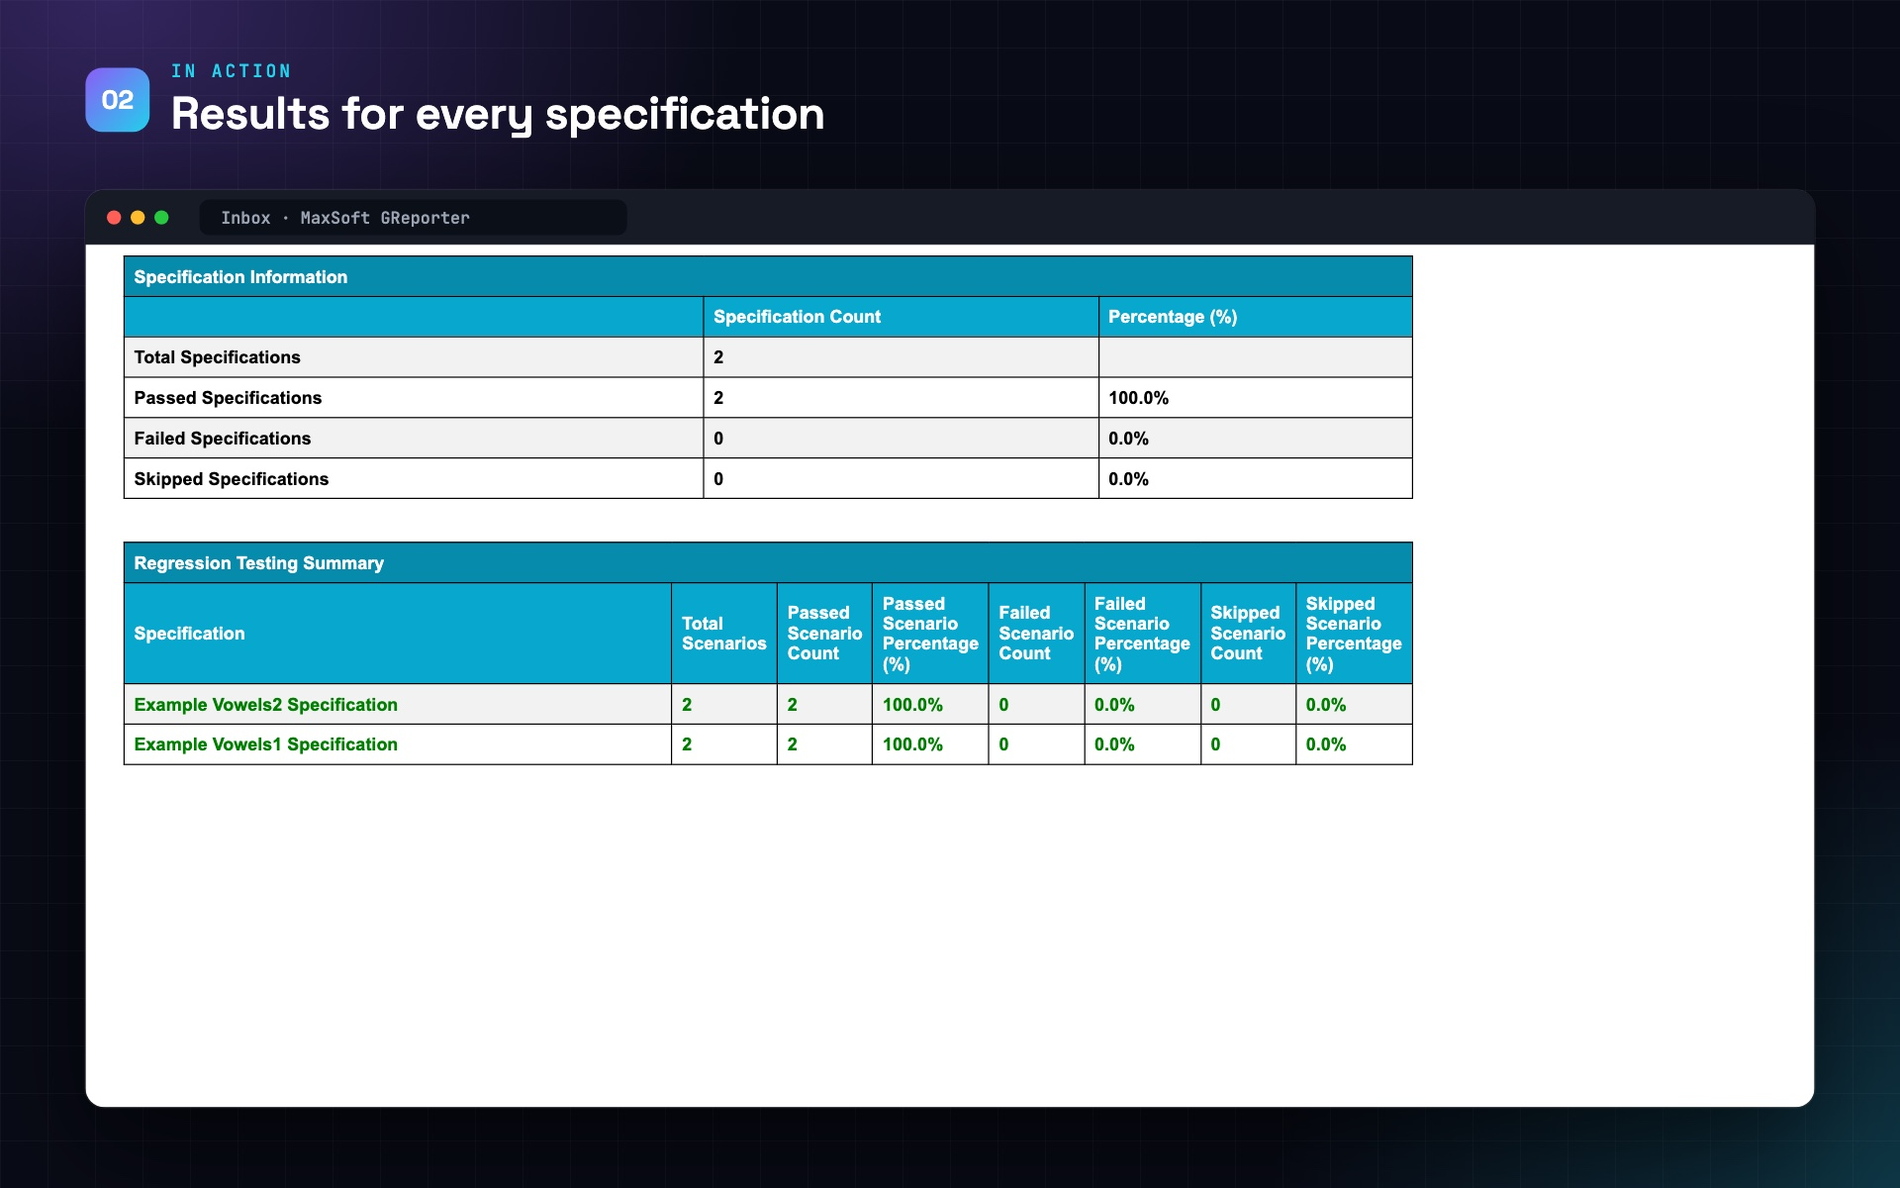
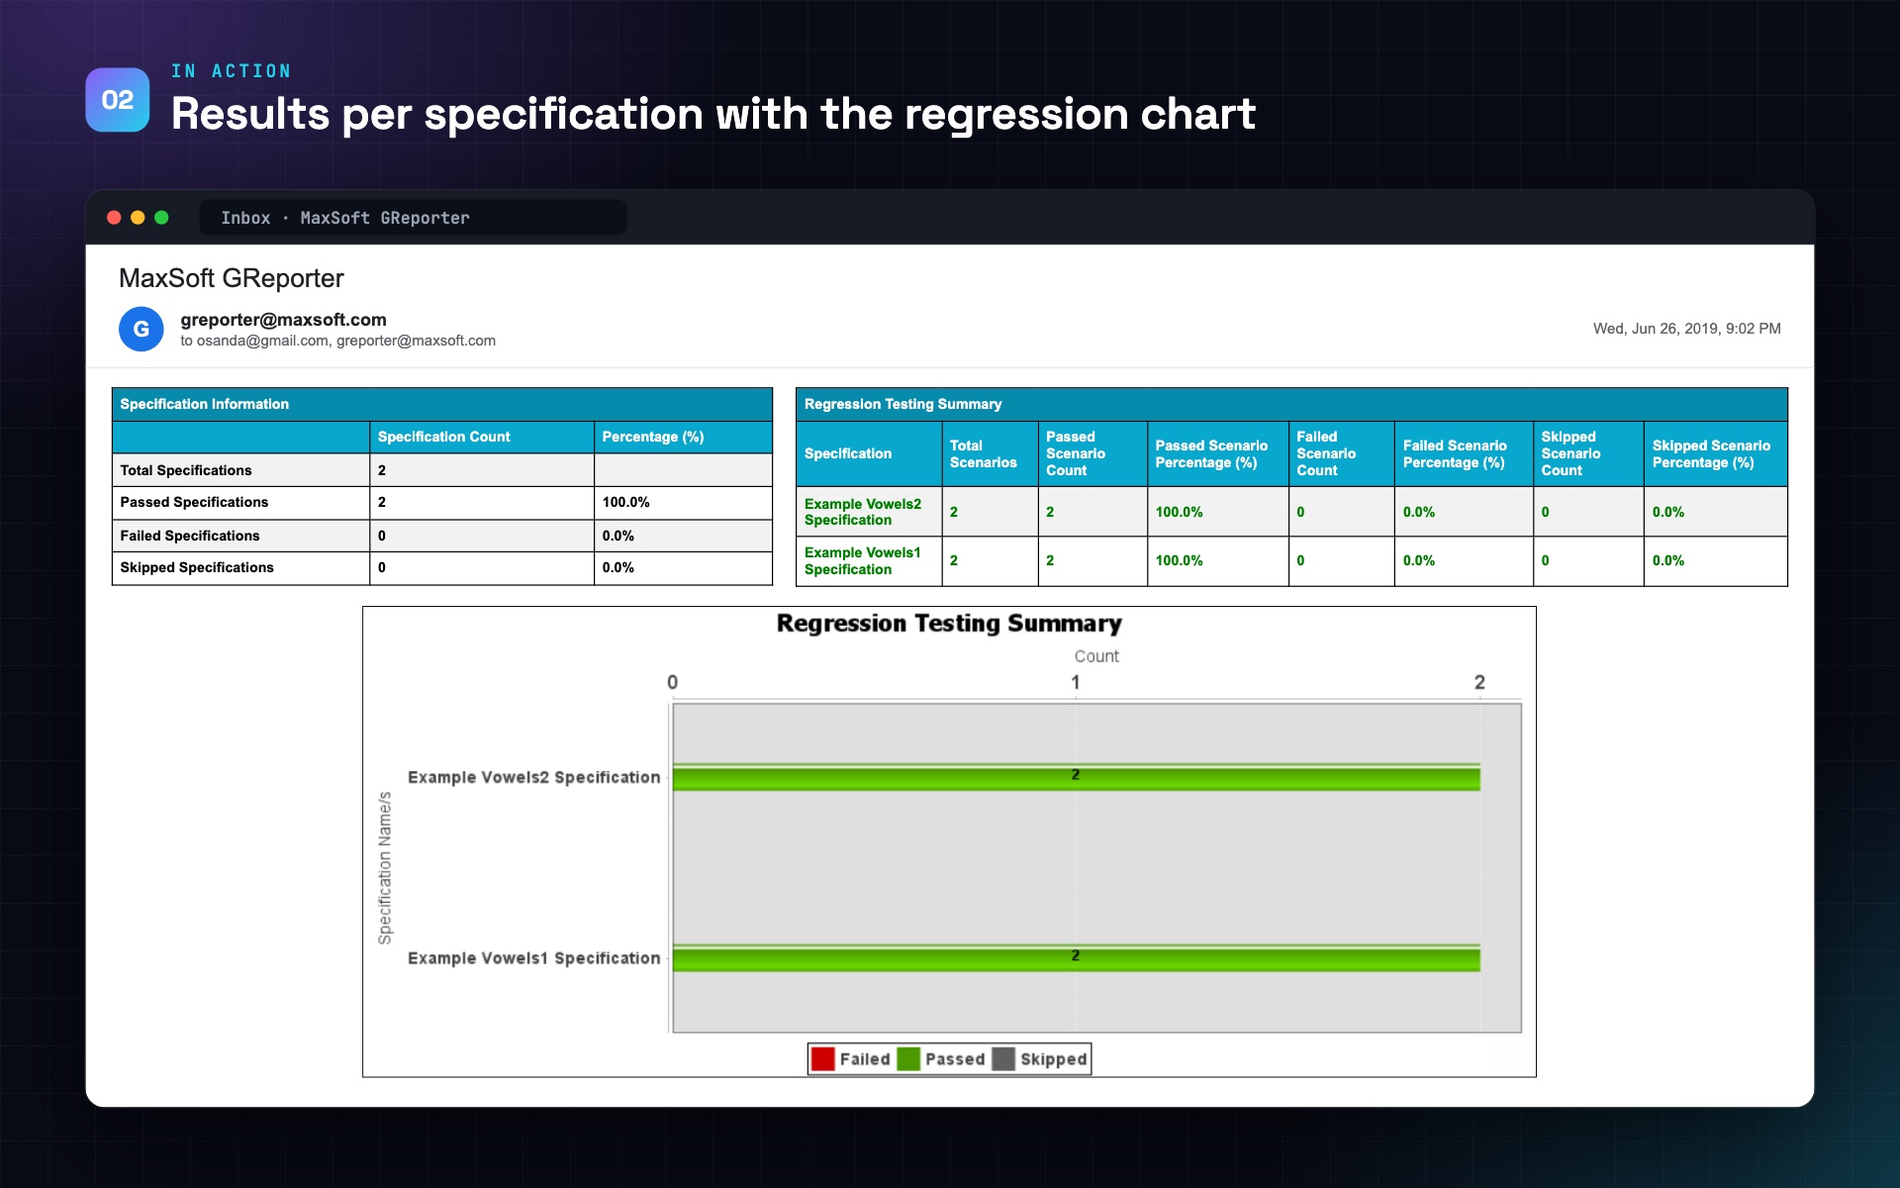
Sharp, readable gallery images and reordered galleries
- Rebuild low-resolution screens in HTML from their exact data so body
  text is readable at full size: TestNG Excel sheets and Extent reports,
  Extent Reporter V4 report, standard Gauge report for IntelliAPI
- Health Checker: wider five-column capture, wide modal, two phone crops
- GReporter: split the summary email across two readable images
- Test Automation Master: publication home page and the latest articles
- MySight: remove the open menu and use a taller phone screen
- Reorder TestNG Analyzer, Extent Reporter, WebDriver Manager and
  Text Extractor galleries; update captions and alt text
- Design system: readability rule for gallery images

diff --git a/maxsoft-testng-test-results-analyzer.html b/maxsoft-testng-test-results-analyzer.html
@@ -73,17 +73,19 @@
     <div class="container detail-grid">
       <div class="reveal">
       <div class="gallery card">
-        <div class="browser-bar"><span></span><span></span><span></span><em class="g-count">1 / 4</em><button class="g-zoom" type="button" aria-label="View image full screen"><i class="bi bi-arrows-fullscreen"></i></button></div>
+        <div class="browser-bar"><span></span><span></span><span></span><em class="g-count">1 / 6</em><button class="g-zoom" type="button" aria-label="View image full screen"><i class="bi bi-arrows-fullscreen"></i></button></div>
         <div class="g-stage">
           <img src="assets/img/gallery/maxsoft-testng-test-results-analyzer-1.jpg" alt="MaxSoft TestNG Test Results Analyzer: See which root cause breaks the most tests" width="1920" height="1200" class="active" loading="eager">
-          <img src="assets/img/gallery/maxsoft-testng-test-results-analyzer-2.jpg" alt="MaxSoft TestNG Test Results Analyzer: A full Extent HTML report with every run" width="1920" height="1200" class="" loading="lazy">
-          <img src="assets/img/gallery/maxsoft-testng-test-results-analyzer-3.jpg" alt="MaxSoft TestNG Test Results Analyzer: Failure details with the error and screenshot" width="1920" height="1200" class="" loading="lazy">
-          <img src="assets/img/gallery/maxsoft-testng-test-results-analyzer-4.jpg" alt="MaxSoft TestNG Test Results Analyzer: Configure everything in one properties file" width="1920" height="1200" class="" loading="lazy">
+          <img src="assets/img/gallery/maxsoft-testng-test-results-analyzer-2.jpg" alt="MaxSoft TestNG Test Results Analyzer: Failed tests grouped under each root cause" width="1920" height="1200" class="" loading="lazy">
+          <img src="assets/img/gallery/maxsoft-testng-test-results-analyzer-3.jpg" alt="MaxSoft TestNG Test Results Analyzer: Excel report: every test with its status and error" width="1920" height="1200" class="" loading="lazy">
+          <img src="assets/img/gallery/maxsoft-testng-test-results-analyzer-4.jpg" alt="MaxSoft TestNG Test Results Analyzer: A full Extent HTML report with every run" width="1920" height="1200" class="" loading="lazy">
+          <img src="assets/img/gallery/maxsoft-testng-test-results-analyzer-5.jpg" alt="MaxSoft TestNG Test Results Analyzer: Failure details with the error and screenshot" width="1920" height="1200" class="" loading="lazy">
+          <img src="assets/img/gallery/maxsoft-testng-test-results-analyzer-6.jpg" alt="MaxSoft TestNG Test Results Analyzer: Add it to any TestNG project in four steps" width="1920" height="1200" class="" loading="lazy">
         </div>
         <button class="icon-btn g-nav prev" type="button" aria-label="Previous image"><i class="bi bi-chevron-left"></i></button>
         <button class="icon-btn g-nav next" type="button" aria-label="Next image"><i class="bi bi-chevron-right"></i></button>
       </div>
-      <div class="g-thumbs"><button type="button" class="active" aria-label="Show image 1"><img src="assets/img/gallery/maxsoft-testng-test-results-analyzer-1.jpg" alt="" loading="lazy"></button><button type="button" class="" aria-label="Show image 2"><img src="assets/img/gallery/maxsoft-testng-test-results-analyzer-2.jpg" alt="" loading="lazy"></button><button type="button" class="" aria-label="Show image 3"><img src="assets/img/gallery/maxsoft-testng-test-results-analyzer-3.jpg" alt="" loading="lazy"></button><button type="button" class="" aria-label="Show image 4"><img src="assets/img/gallery/maxsoft-testng-test-results-analyzer-4.jpg" alt="" loading="lazy"></button></div>
+      <div class="g-thumbs"><button type="button" class="active" aria-label="Show image 1"><img src="assets/img/gallery/maxsoft-testng-test-results-analyzer-1.jpg" alt="" loading="lazy"></button><button type="button" class="" aria-label="Show image 2"><img src="assets/img/gallery/maxsoft-testng-test-results-analyzer-2.jpg" alt="" loading="lazy"></button><button type="button" class="" aria-label="Show image 3"><img src="assets/img/gallery/maxsoft-testng-test-results-analyzer-3.jpg" alt="" loading="lazy"></button><button type="button" class="" aria-label="Show image 4"><img src="assets/img/gallery/maxsoft-testng-test-results-analyzer-4.jpg" alt="" loading="lazy"></button><button type="button" class="" aria-label="Show image 5"><img src="assets/img/gallery/maxsoft-testng-test-results-analyzer-5.jpg" alt="" loading="lazy"></button><button type="button" class="" aria-label="Show image 6"><img src="assets/img/gallery/maxsoft-testng-test-results-analyzer-6.jpg" alt="" loading="lazy"></button></div>
       </div>
       <aside class="card detail-info reveal d1">
         <h2 class="h-sm">Project information</h2>

diff --git a/maxsoft-webdriver-manager.html b/maxsoft-webdriver-manager.html
@@ -73,16 +73,17 @@
     <div class="container detail-grid">
       <div class="reveal">
       <div class="gallery card">
-        <div class="browser-bar"><span></span><span></span><span></span><em class="g-count">1 / 3</em><button class="g-zoom" type="button" aria-label="View image full screen"><i class="bi bi-arrows-fullscreen"></i></button></div>
+        <div class="browser-bar"><span></span><span></span><span></span><em class="g-count">1 / 4</em><button class="g-zoom" type="button" aria-label="View image full screen"><i class="bi bi-arrows-fullscreen"></i></button></div>
         <div class="g-stage">
-          <img src="assets/img/gallery/maxsoft-webdriver-manager-1.jpg" alt="MaxSoft WebDriver Manager: Launch any browser with one line" width="1920" height="1200" class="active" loading="eager">
-          <img src="assets/img/gallery/maxsoft-webdriver-manager-2.jpg" alt="MaxSoft WebDriver Manager: Drivers download and configure themselves" width="1920" height="1200" class="" loading="lazy">
-          <img src="assets/img/gallery/maxsoft-webdriver-manager-3.jpg" alt="MaxSoft WebDriver Manager: Chrome, Firefox, Edge, Safari and IE" width="1920" height="1200" class="" loading="lazy">
+          <img src="assets/img/gallery/maxsoft-webdriver-manager-1.jpg" alt="MaxSoft WebDriver Manager: One line launches any major browser" width="1920" height="1200" class="active" loading="eager">
+          <img src="assets/img/gallery/maxsoft-webdriver-manager-2.jpg" alt="MaxSoft WebDriver Manager: A complete JUnit test with one-line setup" width="1920" height="1200" class="" loading="lazy">
+          <img src="assets/img/gallery/maxsoft-webdriver-manager-3.jpg" alt="MaxSoft WebDriver Manager: Drivers download and configure themselves" width="1920" height="1200" class="" loading="lazy">
+          <img src="assets/img/gallery/maxsoft-webdriver-manager-4.jpg" alt="MaxSoft WebDriver Manager: Add it to any Selenium project in three steps" width="1920" height="1200" class="" loading="lazy">
         </div>
         <button class="icon-btn g-nav prev" type="button" aria-label="Previous image"><i class="bi bi-chevron-left"></i></button>
         <button class="icon-btn g-nav next" type="button" aria-label="Next image"><i class="bi bi-chevron-right"></i></button>
       </div>
-      <div class="g-thumbs"><button type="button" class="active" aria-label="Show image 1"><img src="assets/img/gallery/maxsoft-webdriver-manager-1.jpg" alt="" loading="lazy"></button><button type="button" class="" aria-label="Show image 2"><img src="assets/img/gallery/maxsoft-webdriver-manager-2.jpg" alt="" loading="lazy"></button><button type="button" class="" aria-label="Show image 3"><img src="assets/img/gallery/maxsoft-webdriver-manager-3.jpg" alt="" loading="lazy"></button></div>
+      <div class="g-thumbs"><button type="button" class="active" aria-label="Show image 1"><img src="assets/img/gallery/maxsoft-webdriver-manager-1.jpg" alt="" loading="lazy"></button><button type="button" class="" aria-label="Show image 2"><img src="assets/img/gallery/maxsoft-webdriver-manager-2.jpg" alt="" loading="lazy"></button><button type="button" class="" aria-label="Show image 3"><img src="assets/img/gallery/maxsoft-webdriver-manager-3.jpg" alt="" loading="lazy"></button><button type="button" class="" aria-label="Show image 4"><img src="assets/img/gallery/maxsoft-webdriver-manager-4.jpg" alt="" loading="lazy"></button></div>
       </div>
       <aside class="card detail-info reveal d1">
         <h2 class="h-sm">Project information</h2>

diff --git a/maxsoft-api-healthchecker.html b/maxsoft-api-healthchecker.html
@@ -75,8 +75,8 @@
       <div class="gallery card">
         <div class="browser-bar"><span></span><span></span><span></span><em class="g-count">1 / 5</em><button class="g-zoom" type="button" aria-label="View image full screen"><i class="bi bi-arrows-fullscreen"></i></button></div>
         <div class="g-stage">
-          <img src="assets/img/gallery/maxsoft-api-healthchecker-1.jpg" alt="MaxSoft API Health Checker: Every backend service's health, live" width="1920" height="1200" class="active" loading="eager">
-          <img src="assets/img/gallery/maxsoft-api-healthchecker-2.jpg" alt="MaxSoft API Health Checker: Spot a failing service and see who to contact" width="1920" height="1200" class="" loading="lazy">
+          <img src="assets/img/gallery/maxsoft-api-healthchecker-1.jpg" alt="MaxSoft API Health Checker: Every backend service's health on one page" width="1920" height="1200" class="active" loading="eager">
+          <img src="assets/img/gallery/maxsoft-api-healthchecker-2.jpg" alt="MaxSoft API Health Checker: Open a failing service to see its URL and owner" width="1920" height="1200" class="" loading="lazy">
           <img src="assets/img/gallery/maxsoft-api-healthchecker-3.jpg" alt="MaxSoft API Health Checker: The same dashboard on mobile" width="1920" height="1200" class="" loading="lazy">
           <img src="assets/img/gallery/maxsoft-api-healthchecker-4.jpg" alt="MaxSoft API Health Checker: Add a service with one JSON entry" width="1920" height="1200" class="" loading="lazy">
           <img src="assets/img/gallery/maxsoft-api-healthchecker-5.jpg" alt="MaxSoft API Health Checker: A built-in proxy removes CORS issues" width="1920" height="1200" class="" loading="lazy">

diff --git a/test-automation-master.html b/test-automation-master.html
@@ -75,9 +75,9 @@
       <div class="gallery card">
         <div class="browser-bar"><span></span><span></span><span></span><em class="g-count">1 / 3</em><button class="g-zoom" type="button" aria-label="View image full screen"><i class="bi bi-arrows-fullscreen"></i></button></div>
         <div class="g-stage">
-          <img src="assets/img/gallery/test-automation-master-1.jpg" alt="Test Automation Master: Playwright CLI vs MCP, explained" width="1920" height="1200" class="active" loading="eager">
+          <img src="assets/img/gallery/test-automation-master-1.jpg" alt="Test Automation Master: Test automation tutorials on Medium" width="1920" height="1200" class="active" loading="eager">
           <img src="assets/img/gallery/test-automation-master-2.jpg" alt="Test Automation Master: Building a quality dashboard for CI" width="1920" height="1200" class="" loading="lazy">
-          <img src="assets/img/gallery/test-automation-master-3.jpg" alt="Test Automation Master: Switching from Percy to Playwright" width="1920" height="1200" class="" loading="lazy">
+          <img src="assets/img/gallery/test-automation-master-3.jpg" alt="Test Automation Master: A test coverage dashboard with GitHub Actions" width="1920" height="1200" class="" loading="lazy">
         </div>
         <button class="icon-btn g-nav prev" type="button" aria-label="Previous image"><i class="bi bi-chevron-left"></i></button>
         <button class="icon-btn g-nav next" type="button" aria-label="Next image"><i class="bi bi-chevron-right"></i></button>

diff --git a/maxsoft-extent-reporter.html b/maxsoft-extent-reporter.html
@@ -76,8 +76,8 @@
         <div class="browser-bar"><span></span><span></span><span></span><em class="g-count">1 / 3</em><button class="g-zoom" type="button" aria-label="View image full screen"><i class="bi bi-arrows-fullscreen"></i></button></div>
         <div class="g-stage">
           <img src="assets/img/gallery/maxsoft-extent-reporter-1.jpg" alt="MaxSoft Extent Reporter: A rich HTML report after every run" width="1920" height="1200" class="active" loading="eager">
-          <img src="assets/img/gallery/maxsoft-extent-reporter-2.jpg" alt="MaxSoft Extent Reporter: Add one listener to TestNG and you are done" width="1920" height="1200" class="" loading="lazy">
-          <img src="assets/img/gallery/maxsoft-extent-reporter-3.jpg" alt="MaxSoft Extent Reporter: Theme and report details in one properties file" width="1920" height="1200" class="" loading="lazy">
+          <img src="assets/img/gallery/maxsoft-extent-reporter-2.jpg" alt="MaxSoft Extent Reporter: A complete test class using the reporter" width="1920" height="1200" class="" loading="lazy">
+          <img src="assets/img/gallery/maxsoft-extent-reporter-3.jpg" alt="MaxSoft Extent Reporter: Add it to any TestNG project in four steps" width="1920" height="1200" class="" loading="lazy">
         </div>
         <button class="icon-btn g-nav prev" type="button" aria-label="Previous image"><i class="bi bi-chevron-left"></i></button>
         <button class="icon-btn g-nav next" type="button" aria-label="Next image"><i class="bi bi-chevron-right"></i></button>

diff --git a/text-extractor.html b/text-extractor.html
@@ -76,8 +76,8 @@
         <div class="browser-bar"><span></span><span></span><span></span><em class="g-count">1 / 3</em><button class="g-zoom" type="button" aria-label="View image full screen"><i class="bi bi-arrows-fullscreen"></i></button></div>
         <div class="g-stage">
           <img src="assets/img/gallery/text-extractor-1.jpg" alt="Text Extractor: OCR Scanner: Point the camera at printed text" width="1920" height="1200" class="active" loading="eager">
-          <img src="assets/img/gallery/text-extractor-2.jpg" alt="Text Extractor: OCR Scanner: Get editable text, ready to share" width="1920" height="1200" class="" loading="lazy">
-          <img src="assets/img/gallery/text-extractor-3.jpg" alt="Text Extractor: OCR Scanner: On-device OCR with Tesseract" width="1920" height="1200" class="" loading="lazy">
+          <img src="assets/img/gallery/text-extractor-2.jpg" alt="Text Extractor: OCR Scanner: On-device OCR with Tesseract" width="1920" height="1200" class="" loading="lazy">
+          <img src="assets/img/gallery/text-extractor-3.jpg" alt="Text Extractor: OCR Scanner: Get editable text, ready to share" width="1920" height="1200" class="" loading="lazy">
         </div>
         <button class="icon-btn g-nav prev" type="button" aria-label="Previous image"><i class="bi bi-chevron-left"></i></button>
         <button class="icon-btn g-nav next" type="button" aria-label="Next image"><i class="bi bi-chevron-right"></i></button>

diff --git a/maxsoft-greporter.html b/maxsoft-greporter.html
@@ -75,8 +75,8 @@
       <div class="gallery card">
         <div class="browser-bar"><span></span><span></span><span></span><em class="g-count">1 / 3</em><button class="g-zoom" type="button" aria-label="View image full screen"><i class="bi bi-arrows-fullscreen"></i></button></div>
         <div class="g-stage">
-          <img src="assets/img/gallery/maxsoft-greporter-1.jpg" alt="MaxSoft GReporter: Stakeholders get the results by email" width="1920" height="1200" class="active" loading="eager">
-          <img src="assets/img/gallery/maxsoft-greporter-2.jpg" alt="MaxSoft GReporter: Results for every specification" width="1920" height="1200" class="" loading="lazy">
+          <img src="assets/img/gallery/maxsoft-greporter-1.jpg" alt="MaxSoft GReporter: The summary email stakeholders receive" width="1920" height="1200" class="active" loading="eager">
+          <img src="assets/img/gallery/maxsoft-greporter-2.jpg" alt="MaxSoft GReporter: Results per specification with the regression chart" width="1920" height="1200" class="" loading="lazy">
           <img src="assets/img/gallery/maxsoft-greporter-3.jpg" alt="MaxSoft GReporter: Different recipients for each environment" width="1920" height="1200" class="" loading="lazy">
         </div>
         <button class="icon-btn g-nav prev" type="button" aria-label="Previous image"><i class="bi bi-chevron-left"></i></button>

diff --git a/maxsoft-intelliapi.html b/maxsoft-intelliapi.html
@@ -75,8 +75,8 @@
       <div class="gallery card">
         <div class="browser-bar"><span></span><span></span><span></span><em class="g-count">1 / 3</em><button class="g-zoom" type="button" aria-label="View image full screen"><i class="bi bi-arrows-fullscreen"></i></button></div>
         <div class="g-stage">
-          <img src="assets/img/gallery/maxsoft-intelliapi-1.jpg" alt="MaxSoft IntelliAPI: API tests written in plain language" width="1920" height="1200" class="active" loading="eager">
-          <img src="assets/img/gallery/maxsoft-intelliapi-2.jpg" alt="MaxSoft IntelliAPI: A detailed HTML report for every run" width="1920" height="1200" class="" loading="lazy">
+          <img src="assets/img/gallery/maxsoft-intelliapi-1.jpg" alt="MaxSoft IntelliAPI: A detailed HTML report for every run" width="1920" height="1200" class="active" loading="eager">
+          <img src="assets/img/gallery/maxsoft-intelliapi-2.jpg" alt="MaxSoft IntelliAPI: API tests written in plain language" width="1920" height="1200" class="" loading="lazy">
           <img src="assets/img/gallery/maxsoft-intelliapi-3.jpg" alt="MaxSoft IntelliAPI: Validate the database in the same test" width="1920" height="1200" class="" loading="lazy">
         </div>
         <button class="icon-btn g-nav prev" type="button" aria-label="Previous image"><i class="bi bi-chevron-left"></i></button>

diff --git a/mysight.html b/mysight.html
@@ -75,8 +75,8 @@
       <div class="gallery card">
         <div class="browser-bar"><span></span><span></span><span></span><em class="g-count">1 / 2</em><button class="g-zoom" type="button" aria-label="View image full screen"><i class="bi bi-arrows-fullscreen"></i></button></div>
         <div class="g-stage">
-          <img src="assets/img/gallery/mysight-1.jpg" alt="MySight: A New Vision for the Blind: Recognise printed text on the phone" width="1920" height="1200" class="active" loading="eager">
-          <img src="assets/img/gallery/mysight-2.jpg" alt="MySight: A New Vision for the Blind: Read the text aloud with text-to-speech" width="1920" height="1200" class="" loading="lazy">
+          <img src="assets/img/gallery/mysight-1.jpg" alt="MySight: A New Vision for the Blind: Point the camera at any printed page" width="1920" height="1200" class="active" loading="eager">
+          <img src="assets/img/gallery/mysight-2.jpg" alt="MySight: A New Vision for the Blind: Get the text and have it read aloud" width="1920" height="1200" class="" loading="lazy">
         </div>
         <button class="icon-btn g-nav prev" type="button" aria-label="Previous image"><i class="bi bi-chevron-left"></i></button>
         <button class="icon-btn g-nav next" type="button" aria-label="Next image"><i class="bi bi-chevron-right"></i></button>

diff --git a/docs/DESIGN-SYSTEM.md b/docs/DESIGN-SYSTEM.md
@@ -59,6 +59,9 @@ covers: dark grid backdrop with violet/cyan glows, a numbered gradient tile, a m
 panel. Panels are a browser window around a real page re-rendered at 2x (dashboard, Gauge report,
 email from GReporter's own template, Medium article), a phone frame around real app screenshots,
 an editor view of real repo files, or a diagram. Never enlarge a screenshot beyond its pixels.
+Body text must stay readable at full size (roughly 14px or more in the 1920px image): when the
+only screenshot is low resolution, rebuild the screen in HTML from its exact data (as done for the
+Excel and Extent reports) instead of shrinking it, and split a long page across two images.
 Order: the product in action first, then the result, then setup and architecture.
 
 ## Responsive and accessibility
